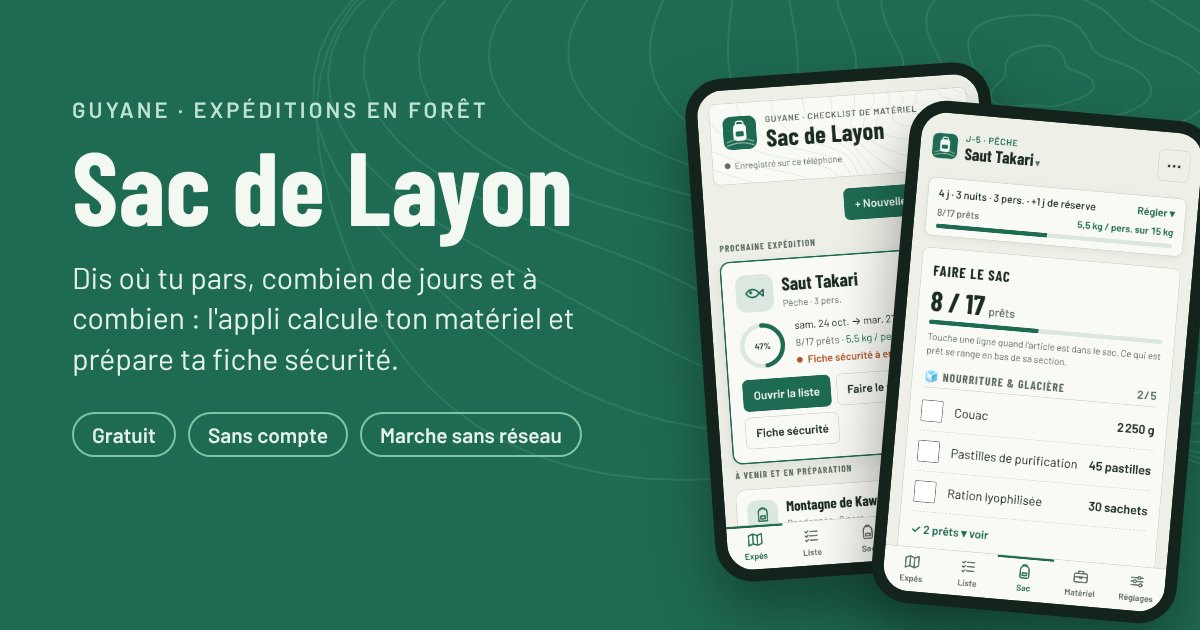
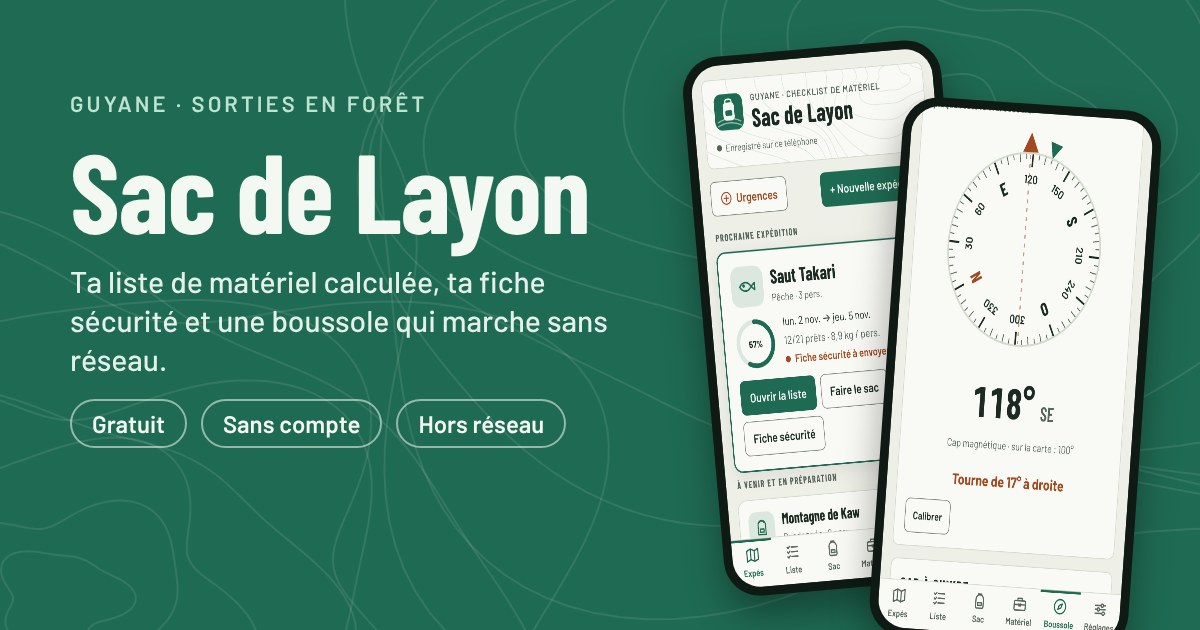
Image d'aperçu de lien refaite avec l'interface actuelle (boussole, icônes au trait) (#19)
Claude-Session: https://claude.ai/code/session_01Fpb2Cz14w5SwjVXuLHneAk

diff --git a/index.html b/index.html
@@ -17,7 +17,7 @@
 <meta property="og:type" content="website">
 <meta property="og:title" content="Sac de Layon : ta checklist d'expédition en Guyane">
 <meta property="og:description" content="Dis où tu pars, combien de jours et à combien : l'appli calcule ton matériel, le poids du sac, et prépare ta fiche sécurité. Gratuit, sans compte, marche sans réseau.">
-<meta property="og:image" content="https://samueldagostino64-ai.github.io/sac-de-layon-/partage.jpg">
+<meta property="og:image" content="https://samueldagostino64-ai.github.io/sac-de-layon-/partage.jpg?v=26">
 <meta property="og:locale" content="fr_FR">
 <meta name="twitter:card" content="summary_large_image">
 <style>:root{padding-top:env(safe-area-inset-top,0px);padding-bottom:env(safe-area-inset-bottom,0px)}body{margin:0}img{max-width:100%}[hidden]{display:none!important}</style>
